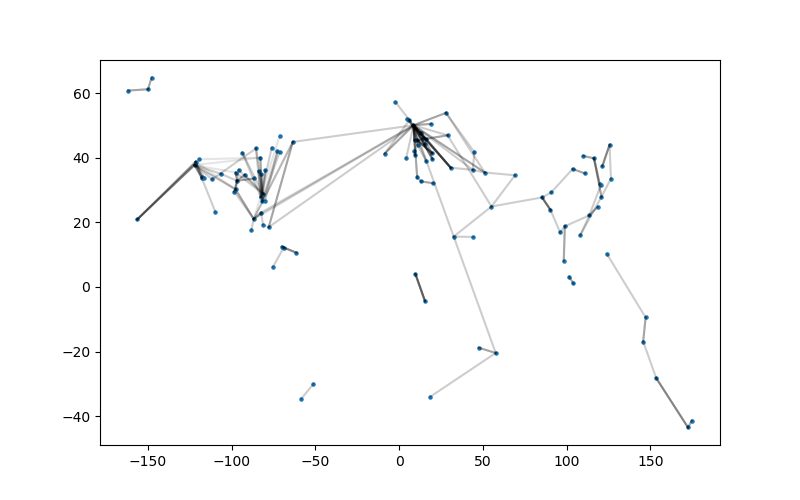
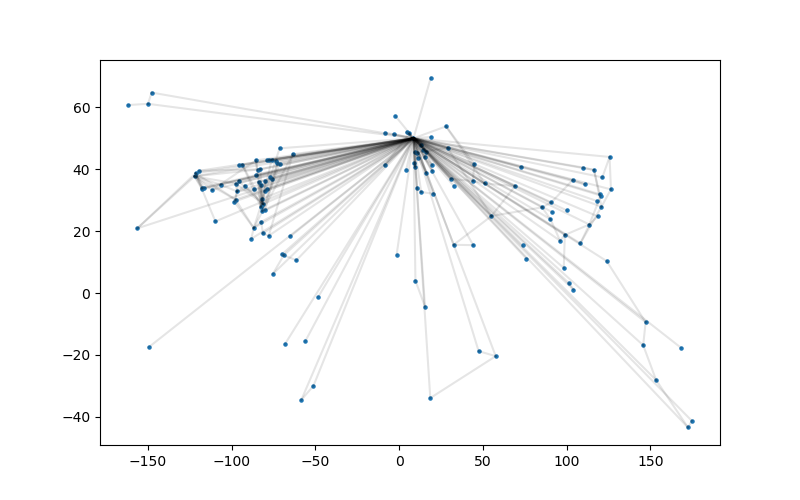
Fixed problem with edges in simplified graph

diff --git a/model/optimize/colapse.py b/model/optimize/colapse.py
@@ -1,5 +1,4 @@
-from networkx import find_cliques, contracted_nodes, degree
-from numpy import delete
+from networkx import find_cliques, contracted_nodes, degree, generate_edgelist
 
 
 def check_nodes(affected, clique):
@@ -13,8 +12,8 @@ def check_nodes(affected, clique):
 
 def simplify_net(network, netx_inp=False):
     netx = network.network_plot if not netx_inp else network
+    degrees = degree(netx)
 
-    # for i in range(10):
     while True:
         action = False
         affected_nodes = set()
@@ -38,7 +37,7 @@ def simplify_net(network, netx_inp=False):
                 netx = contracted_nodes(netx, base, clique[j])
                 affected_nodes.add(clique[j])
 
-        if not action:
+        if not action:  # If not action in the last pass, done
             break
 
     return netx

diff --git a/execute/plots/simplify_network.py b/execute/plots/simplify_network.py
@@ -1,8 +1,9 @@
 from execute.import_data import load_airport_and_route
-from networkx import from_edgelist, nodes
+from networkx import from_edgelist, nodes, edges
 from model.optimize.colapse import simplify_net
 from utilities.plotting import plot_net_w_routes
 from utilities import compress_graph_data
+from numpy import array
 
 airports, routes = load_airport_and_route(deep_load=True)
 print('Data loaded')
@@ -11,8 +12,8 @@ netx = from_edgelist(routes)
 print('Network generated')
 
 s_net = simplify_net(netx, netx_inp=True)
-print('Done simplifying')
-
+routes = array(edges(s_net))
+print('Network simplified')
 
 airports, routes = compress_graph_data(airports, routes, nodes(s_net))
 plot_net_w_routes(airports, routes, file_name='../../results/simplified_network.png')

diff --git a/utilities/data_handling.py b/utilities/data_handling.py
@@ -101,7 +101,7 @@ def dict_to_arr(d_vals, conv=True):
 
 def compress_graph_data(nodes, edges, indexes):
     nodes = take(nodes, indexes, axis=0)
-    nodes, _, edges = filter_degree(nodes, edges, d_cut_off=2)
+    # nodes, _, edges = filter_degree(nodes, edges, d_cut_off=1)
     nodes, edges = re_index(nodes, edges)
 
     return nodes, edges

diff --git a/utilities/plotting/network.py b/utilities/plotting/network.py
@@ -36,7 +36,8 @@ def plot_net_w_routes(nodes, edges, fig_title='Network', plot_edges=True, blocki
     if file_name is not None:
         try:
             savefig(file_name)
-        except: pass
+        except:
+            print('Bad save!')
 
     if blocking:
         show()
